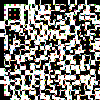
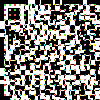
Updated canada.pymy1.png .

diff --git a/canada.py b/canada.py
@@ -28,7 +28,7 @@ outp=np.asarray(outp)
 img = Image.fromarray(outp, 'RGB')
 img.save('my.png')
 moverPieza(outp,18,1,0,0)
-moverPieza(outp,0,16,0,15)
+moverPieza(outp,0,16,0,4)
 moverPieza(outp,1,4,0,3)
 moverPieza(outp,1,9,0,11)
 moverPieza(outp,2,8,0,5)
@@ -38,7 +38,7 @@ moverPieza(outp,5,3,0,8)
 moverPieza(outp,7,17,0,13)
 moverPieza(outp,8,8,0,1)
 moverPieza(outp,10,1,0,16)
-moverPieza(outp,11,11,0,4)
+moverPieza(outp,11,11,0,15)
 moverPieza(outp,12,16,0,10)
 moverPieza(outp,13,6,0,18)
 moverPieza(outp,15,5,0,2)
